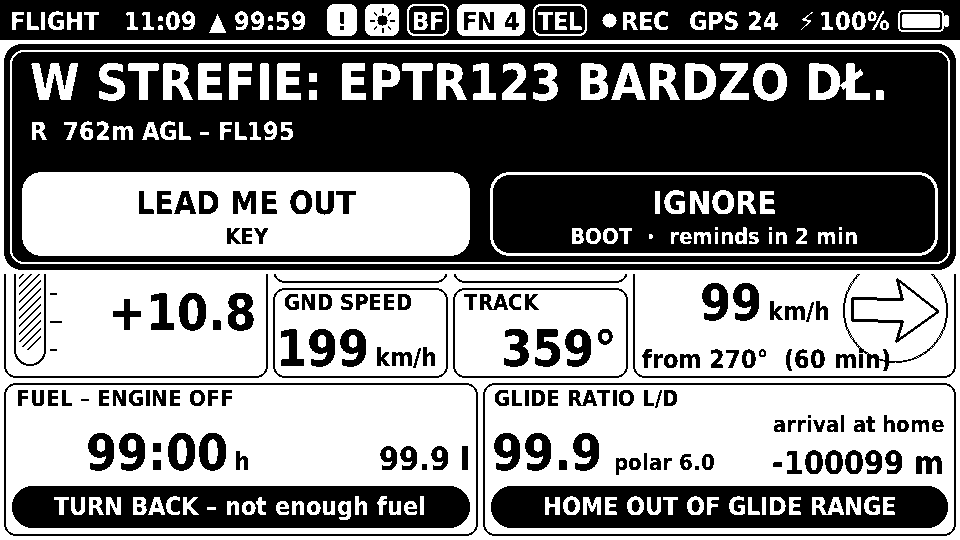
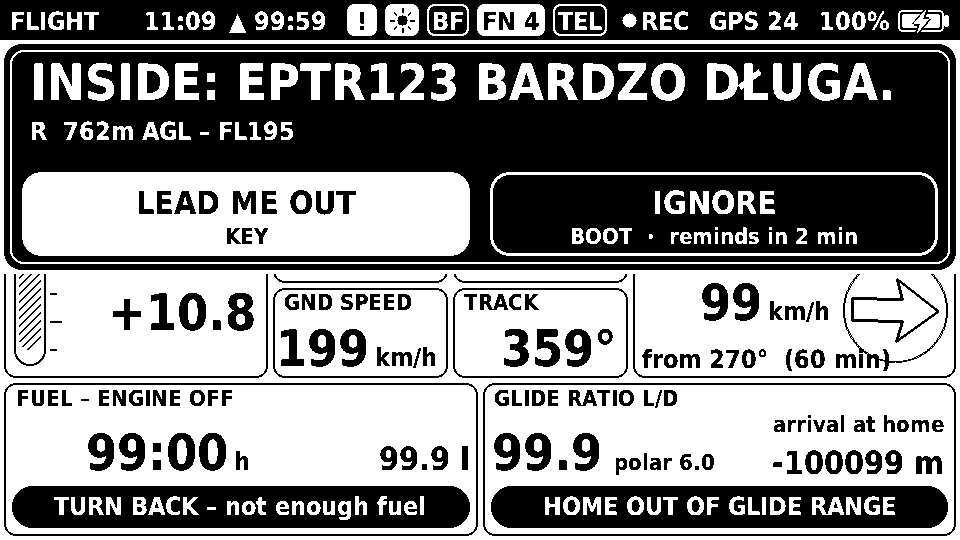
Języki: test układu i zrzuty bez mieszania PL/EN
- layout_check.cpp: komunikaty testowe (alarmy, ekran startowy, SYSTEM,
  menu testowe, wyłączanie) przez TR(pl, en) - te same teksty co
  w firmware; wcześniej były na sztywno po polsku, więc angielski zrzut
  alarmu pokazywał "W STREFIE:" (kod urządzenia był poprawny)
- layout_check.sh: oba języki zawsze uruchamiane (przez "set -e" część
  angielska była pomijana, gdy polska zgłosiła problem)
- layout_check.cpp: test przewijania menu tylko przy >14 pozycjach
  (wcześniej items[7] poza zakresem przy krótkiej liście)
- docs/screens: alarm w strefie od nowa (PL/EN); make_screens.sh
  odświeża też zrzuty V/W/X/Y/Z z testu układu
- README: wpis w historii 0.5.8

Sprawdzone: wszystkie napisy rysowane w obu językach (podgląd + test
układu, ok. 1160 na język) - w angielskiej wersji brak polskich słów
poza danymi testowymi i celowym "Language / Język", w polskiej brak
angielskich słów.

Claude-Session: https://claude.ai/code/session_011XfKyVFqAwC65NqrcskPcU

Changed region(s): [[0.0312, 0.1185, 0.9375, 0.2074], [0.125, 0.0, 0.8438, 0.0889], [0.9375, 0.0296, 0.9688, 0.0593]]

diff --git a/tools/preview/layout_check.cpp b/tools/preview/layout_check.cpp
@@ -327,14 +327,16 @@ int main(int argc, char** argv) {
         e.fc.reset(new FlightComputer(e.set));
         BaroSnapshot b;
         e.fc->updateNoGps(b, 5);
-        e.sys.battSource = "brak (55:nie 6B:nie)";
-        e.sys.gpsModule = "brak odpowiedzi";
-        e.sys.i2cDevices = "nic";
+        e.sys.battSource = TR("brak (55:nie 6B:nie)", "none (55:no 6B:no)");
+        e.sys.gpsModule = TR("brak odpowiedzi", "no response");
+        e.sys.i2cDevices = TR("nic", "nothing");
         e.sys.bfState = 1;
-        e.sys.loadErrors = {"Restart: błąd programu (panic): MENU>Pomoc>[Ekran MAPA] pomoc str.2",
-                            "Raport: logs/crash-01.txt (loopTask, PC 0x4200abcd)",
-                            "Strefy: brak danych w bardzo_dluga_nazwa_pliku_strefy.txt",
-                            "Nie mogę utworzyć pliku IGC"};
+        e.sys.loadErrors = {TR("Restart: błąd programu (panic): MENU>Pomoc>[Ekran MAPA] pomoc str.2",
+                               "Restart: software error (panic): MENU>Help>[MAP screen] help p.2"),
+                            TR("Raport: logs/crash-01.txt (loopTask, PC 0x4200abcd)", "Report: logs/crash-01.txt (loopTask, PC 0x4200abcd)"),
+                            TR("Strefy: brak danych w bardzo_dluga_nazwa_pliku_strefy.txt",
+                               "Airspace: no data in a_very_long_airspace_file_name.txt"),
+                            TR("Nie mogę utworzyć pliku IGC", "Cannot create the IGC file")};
         render(e, "brak-danych");
     }
 
@@ -360,7 +362,7 @@ int main(int argc, char** argv) {
         w.sys.activationEntries = 999; w.sys.activationDate = 20261116; w.sys.waypoints = 9999; w.sys.routePoints = 999;
         w.sys.terrainTiles = 999; w.sys.freeHeapKb = 999; w.sys.freePsramKb = 99999; w.sys.gpsSentences = 9999999;
         w.sys.gpsCsErr = 99999; w.sys.touchX = 959; w.sys.touchY = 539; w.sys.version = "0.1.0";
-        w.sys.battSource = "BQ25896 (napięcie)";
+        w.sys.battSource = TR("BQ25896 (napięcie)", "BQ25896 (voltage)");
         w.sys.backlight = true;
         w.sys.bfState = 3; w.sys.bfName = "BlueFly-7970"; w.sys.bfBattPct = 100; w.sys.bfRssi = -100;
         w.sys.phoneState = 3; w.sys.phoneProgress = 0.457f;
@@ -380,14 +382,18 @@ int main(int argc, char** argv) {
             h.idx = i % nz; h.insideH = false; h.distM = 19999; h.timeToEntryS = 119; h.level = 1;
             w.hits.push_back(h);
         }
-        w.alerts.set(AL_AIRSPACE_IN, true, 1, "W STREFIE: " + w.asp.zones()[nz - 2].name, "R  762m AGL – FL195", 1);
-        w.alerts.set(AL_AIRSPACE_NEAR, true, 1, "STREFA: " + w.asp.zones()[nz - 1].name, "wlot za 1:59  (19.9 km)", 2);
-        w.alerts.set(AL_FUEL_RETURN, true, 1, "WRACAJ – PALIWO!", "paliwo 99.9 l, na powrót potrzeba 99.9 l");
-        w.alerts.set(AL_FUEL_LOW, true, 1, "MAŁO PALIWA", "zapas na powrót tylko -999 min");
-        w.alerts.set(AL_LOW_AGL, true, 1, "NISKO!", "-999 m nad terenem");
-        w.alerts.set(AL_GPS_LOST, true, 1, "BRAK GPS", "nawigacja i strefy nieaktualne");
-        w.alerts.set(AL_BATTERY, true, 1, "SŁABA BATERIA", "1 %");
-        w.alerts.set(AL_BARO_LOST, true, 1, "BRAK BAROMETRU", "wysokość i vario z GPS (mniej dokładne)");
+        // same texts as evaluateAlerts() in src/main.cpp, in the current language
+        w.alerts.set(AL_AIRSPACE_IN, true, 1, TR("W STREFIE: ", "INSIDE: ") + w.asp.zones()[nz - 2].name, "R  762m AGL – FL195", 1);
+        w.alerts.set(AL_AIRSPACE_NEAR, true, 1, TR("STREFA: ", "AIRSPACE: ") + w.asp.zones()[nz - 1].name,
+                     TR("wlot za 1:59  (19.9 km)", "entry in 1:59  (19.9 km)"), 2);
+        w.alerts.set(AL_FUEL_RETURN, true, 1, TR("WRACAJ – PALIWO!", "TURN BACK – FUEL!"),
+                     TR("paliwo 99.9 l, na powrót potrzeba 99.9 l", "fuel 99.9 l, return needs 99.9 l"));
+        w.alerts.set(AL_FUEL_LOW, true, 1, TR("MAŁO PALIWA", "LOW FUEL"), TR("zapas na powrót tylko -999 min", "return margin only -999 min"));
+        w.alerts.set(AL_LOW_AGL, true, 1, TR("NISKO!", "LOW!"), TR("-999 m nad terenem", "-999 m AGL"));
+        w.alerts.set(AL_GPS_LOST, true, 1, TR("BRAK GPS", "NO GPS"), TR("nawigacja i strefy nieaktualne", "navigation and airspace not updated"));
+        w.alerts.set(AL_BATTERY, true, 1, TR("SŁABA BATERIA", "LOW BATTERY"), "1 %");
+        w.alerts.set(AL_BARO_LOST, true, 1, TR("BRAK BAROMETRU", "NO BAROMETER"),
+                     TR("wysokość i vario z GPS (mniej dokładne)", "altitude and vario from GPS (less accurate)"));
         w.fc->lastFlight = {true, 99 * 3600 + 59 * 60, 9999, 12.3f, -12.3f, 999.9f, 999.9f, 99.9f};
         w.sys.logFile = "/sd/logs/2026-11-16-XPN-NAV-99.igc";
         render(w, "skrajne");
@@ -410,7 +416,7 @@ int main(int argc, char** argv) {
             items.push_back(ui::MenuItem::num(l, [] { return -1060.5f; }, [](float) {}, -2000, 2000, 0.5f, 1, "km/h"));
         }
         std::printf("menu: %zu items\n", items.size());
-        auto root = std::make_shared<ui::MenuItem>(ui::MenuItem::sub("root", {ui::MenuItem::sub("Wysokościomierz", items)}));
+        auto root = std::make_shared<ui::MenuItem>(ui::MenuItem::sub("root", {ui::MenuItem::sub(TR("Wysokościomierz", "Altimeter"), items)}));
         ui::Menu m;
         m.open(root);
         m.handleKey(ui::Key::NextLong);
@@ -424,7 +430,7 @@ int main(int argc, char** argv) {
             if (i == 10) savePgm("/tmp/layout/menu.pgm");
             m.handleKey(ui::Key::NextShort);
         }
-        {   // touch scroll column: page down from the top shows items 7..14, page up returns
+        if (items.size() > 14) {   // touch scroll column: page down from the top shows items 7..14, page up returns
             ui::Menu t;
             t.open(root);
             t.handleKey(ui::Key::NextLong);
@@ -504,15 +510,15 @@ int main(int argc, char** argv) {
             for (const auto& t : ui::helpTopics()) help.push_back(M::page(t.title, t.text));
             std::vector<M> nums;
             for (int i = 0; i < 9; i++)
-                nums.push_back(M::num("Liczba " + std::to_string(i), [&] { return val; }, [&](float v) { val = v; }, 0,
+                nums.push_back(M::num(TR("Liczba ", "Number ") + std::to_string(i), [&] { return val; }, [&](float v) { val = v; }, 0,
                                       100, 0.5f, 1, "l"));
             std::vector<M> acts;
-            acts.push_back(M::act("Zamknij", [] {}, true));
-            acts.push_back(M::toggle("Przełącz", [&] { return std::string(flag ? "TAK" : "NIE"); }, [&] { flag = !flag; }));
-            acts.push_back(M::sub("Lista", {M::act("A", [] {}, true), M::act("B", [] {}, true)}));
-            acts.push_back(M::sub("Pusta", {}));
-            return std::make_shared<M>(M::sub("root", {M::sub("Akcje", acts), M::sub("Liczby", nums),
-                                                       M::sub("Pomoc", help), M::act("X", [] {}, true)}));
+            acts.push_back(M::act(TR("Zamknij", "Close"), [] {}, true));
+            acts.push_back(M::toggle(TR("Przełącz", "Toggle"), [&] { return std::string(flag ? TR("TAK", "YES") : TR("NIE", "NO")); }, [&] { flag = !flag; }));
+            acts.push_back(M::sub(TR("Lista", "List"), {M::act("A", [] {}, true), M::act("B", [] {}, true)}));
+            acts.push_back(M::sub(TR("Pusta", "Empty"), {}));
+            return std::make_shared<M>(M::sub("root", {M::sub(TR("Akcje", "Actions"), acts), M::sub(TR("Liczby", "Numbers"), nums),
+                                                       M::sub(TR("Pomoc", "Help"), help), M::act("X", [] {}, true)}));
         };
         ui::Menu m;
         m.open(build());
@@ -537,16 +543,21 @@ int main(int argc, char** argv) {
         ui::Canvas c(fb);
         std::vector<ui::DebugBox> boxes;
         ui::Canvas::debugSink = &boxes;
-        ui::drawBoot(c, {"[OK] Karta SD", "[!!] Barometr MS5611 nie odpowiada – sprawdź QWIIC",
-                         "[..] I2C: 20 51 55 5D 68 6B 76 77", "[!!] Bateria: brak: 0x55 milczy, 0x6B milczy 0.00 V",
-                         "[OK] Strefy 9999, punkty 9999, trasa 999, teren 999 kafli", "[!!] GPS: brak odpowiedzi"},
+        ui::drawBoot(c, {TR("[OK] Karta SD", "[OK] SD card"),
+                         TR("[!!] Barometr MS5611 nie odpowiada – sprawdź QWIIC", "[!!] Barometer MS5611 not responding – check QWIIC"),
+                         "[..] I2C: 20 51 55 5D 68 6B 76 77",
+                         TR("[!!] Bateria: brak (55:nie 6B:nie) 0.00 V", "[!!] Battery: none (55:no 6B:no) 0.00 V"),
+                         TR("[OK] Strefy 9999, punkty 9999, trasa 999, teren 999, mapy 99",
+                            "[OK] Airspace 9999, waypoints 9999, route 999, terrain 999, maps 99"),
+                         TR("[!!] GPS: brak odpowiedzi", "[!!] GPS: no response")},
                      "0.1.0");
         analyse("START", boxes, false);
         boxes.clear();
         ui::drawPowerHint(c);
         analyse("WYŁĄCZANIE", boxes, false);
         boxes.clear();
-        ui::drawPowerOff(c, "Odłącz kabel USB", "przy zasilaniu z USB wyłączenie nie jest możliwe");
+        ui::drawPowerOff(c, TR("Odłącz kabel USB", "Unplug the USB cable"),
+                          TR("przy zasilaniu z USB wyłączenie nie jest możliwe", "the device cannot power off while on USB power"));
         analyse("WYŁĄCZONY", boxes, false);
         ui::Canvas::debugSink = nullptr;
     }

diff --git a/README.pl.md b/README.pl.md
@@ -369,6 +369,7 @@ Najnowsze na górze. Daty to dni, w których powstały paczki z kodem (2026). Nu
 * Ekran SYSTEM: liczba wolnych fragmentów PSRAM („fr”) i czas najwolniejszego rysowania („rys.”); co 10 s także log `[heap]` na porcie szeregowym.
 * Podpisy stref na ekranie MAPA rysują się na urządzeniu (wcześniej przepełnienie liczby na 32-bitowym ESP32).
 * Dokumentacja: plecki z komorą na GY-63 do druku 3D, schemat podłączenia GY-63, zrzuty ekranów w README.
+* Test układu ekranów (`layout_check.sh`) znowu sprawdza oba języki (wcześniej część angielska była po cichu pomijana); komunikaty testowe i zrzuty ekranów bez mieszania polskiego z angielskim.
 * Aplikacja 0.5.8 – bez zmian funkcji, numer wyrównany z firmware. GitHub: naprawione budowanie APK, nowy workflow „Release”.
 
 ### 0.5.6 – 0.5.7 – 20.11

diff --git a/README.md b/README.md
@@ -369,6 +369,7 @@ Newest first. Dates are the days the code packages were made (2026). The firmwar
 * SYSTEM screen: number of free PSRAM fragments ("fr") and the slowest redraw ("draw"); also a `[heap]` line on the serial port every 10 s.
 * Airspace labels on the MAP screen are drawn on the device (a number overflow on the 32-bit ESP32 hid them).
 * Documentation: 3D-printable back cover with a GY-63 compartment, GY-63 wiring diagram, screenshots in the README.
+* The screen layout test (`layout_check.sh`) checks both languages again (the English part was silently skipped); test messages and screenshots no longer mix Polish and English.
 * App 0.5.8 – no functional changes, version aligned with the firmware. GitHub: APK build fixed, new "Release" workflow.
 
 ### 0.5.6 – 0.5.7 – 20 Nov
